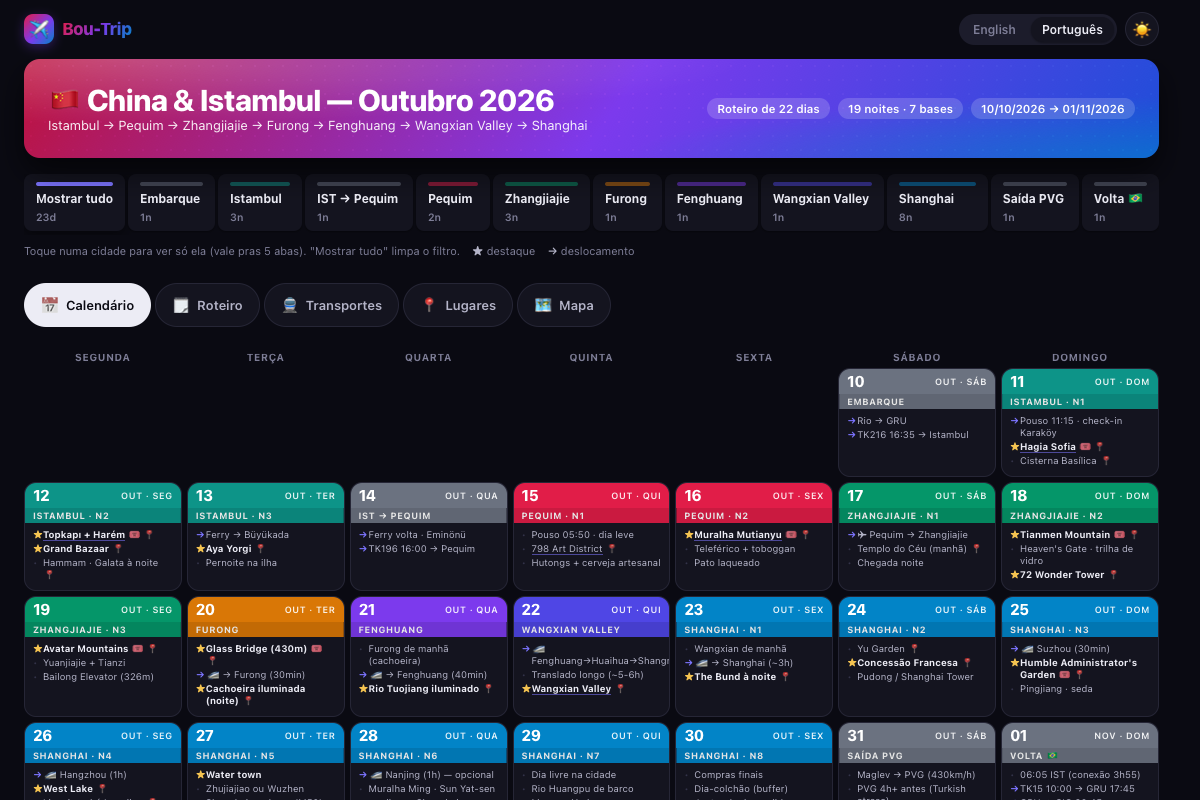
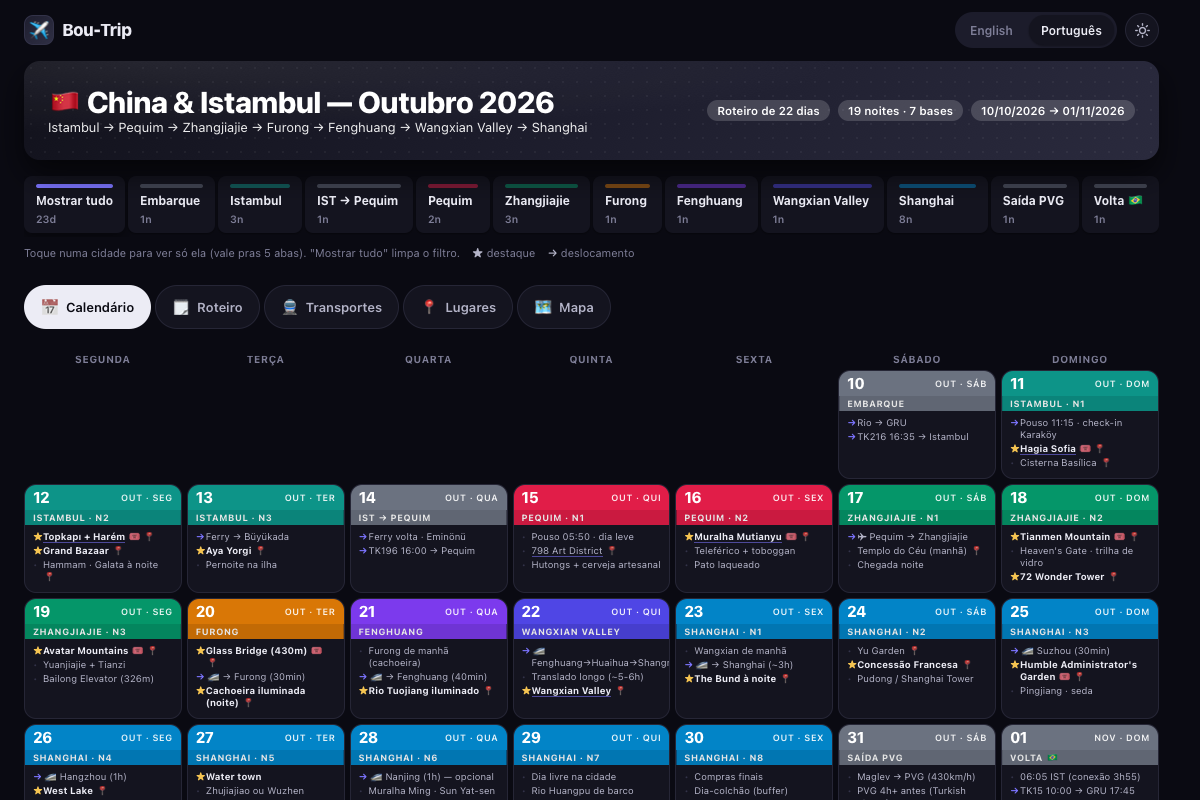
feat(theme): graphite hero, dark by default, roomier mobile
- drop the pink/purple gradient: hero and brand are graphite now, so all
  the color on screen comes from the cities themselves
- dark is the default theme; light is opt-in via the toggle and persists
- mobile: only the tabs stay pinned (two sticky bars ate ~58px of screen),
  compact hero, 38-42px tap targets on the bar controls
- theme toggle uses currentColor SVGs instead of emoji, which always
  render colored and fought the palette

diff --git a/examples/china-2026/05-CALENDARIO.html b/examples/china-2026/05-CALENDARIO.html
@@ -3,10 +3,10 @@
 <head>
 <meta charset="UTF-8">
 <meta name="viewport" content="width=device-width, initial-scale=1">
-<meta name="color-scheme" content="light dark">
+<meta name="color-scheme" content="dark light">
 <title>China &amp; Istambul — Outubro 2026</title>
 <script>
-  // aplica o tema salvo antes da primeira pintura (evita flash de tela clara)
+  // aplica o tema salvo antes da primeira pintura (evita flash ao trocar de tema)
   try { var t = localStorage.getItem('boutrip-theme'); if (t) document.documentElement.setAttribute('data-theme', t); } catch (e) {}
 </script>
 <link rel="stylesheet" href="https://unpkg.com/leaflet@1.9.4/dist/leaflet.css" crossorigin="">
@@ -14,7 +14,34 @@
 <style>
 
   :root {
-    color-scheme: light;
+    color-scheme: dark;
+    --bg: #0a0a12;
+    --bg-blur: rgba(10, 10, 18, .82);
+    --surface: #14141f;
+    --surface-2: #1c1c2b;
+    --text: #ececf5;
+    --text-2: #b4b4c8;
+    --muted: #7e7e97;
+    --border: #262636;
+    --border-strong: #333349;
+    --accent: #7c74ff;
+    --accent-fg: #0a0a12;
+    --accent-soft: rgba(124, 116, 255, .16);
+    --star: #f5c451;
+    --shadow-sm: 0 1px 2px rgba(0, 0, 0, .4);
+    --shadow-md: 0 4px 14px rgba(0, 0, 0, .45);
+    --shadow-lg: 0 14px 34px rgba(0, 0, 0, .6);
+    --city-lighten: 42%;
+    --tile-filter: invert(1) hue-rotate(180deg) brightness(.94) contrast(.86) saturate(.75);
+
+    --sp-1: 4px; --sp-2: 8px; --sp-3: 12px; --sp-4: 16px; --sp-5: 24px; --sp-6: 32px;
+    --r-sm: 8px; --r-md: 12px; --r-lg: 16px; --r-full: 999px;
+    --ease: cubic-bezier(.22, .78, .28, 1);
+    --dur-fast: 110ms; --dur: 210ms;
+    --font: -apple-system, BlinkMacSystemFont, "Segoe UI", "Inter", "Helvetica Neue", Arial, sans-serif;
+    --tap: 44px;
+  }
+  :root[data-theme="light"] { color-scheme: light;
     --bg: #f5f6fa;
     --bg-blur: rgba(245, 246, 250, .82);
     --surface: #ffffff;
@@ -33,55 +60,6 @@
     --shadow-lg: 0 14px 34px rgba(18, 18, 45, .14);
     --city-lighten: 0%;
     --tile-filter: none;
-
-    --sp-1: 4px; --sp-2: 8px; --sp-3: 12px; --sp-4: 16px; --sp-5: 24px; --sp-6: 32px;
-    --r-sm: 8px; --r-md: 12px; --r-lg: 16px; --r-full: 999px;
-    --ease: cubic-bezier(.22, .78, .28, 1);
-    --dur-fast: 110ms; --dur: 210ms;
-    --font: -apple-system, BlinkMacSystemFont, "Segoe UI", "Inter", "Helvetica Neue", Arial, sans-serif;
-    --tap: 44px;
-  }
-  @media (prefers-color-scheme: dark) {
-    :root:not([data-theme="light"]) { color-scheme: dark;
-    --bg: #0a0a12;
-    --bg-blur: rgba(10, 10, 18, .82);
-    --surface: #14141f;
-    --surface-2: #1c1c2b;
-    --text: #ececf5;
-    --text-2: #b4b4c8;
-    --muted: #7e7e97;
-    --border: #262636;
-    --border-strong: #333349;
-    --accent: #7c74ff;
-    --accent-fg: #0a0a12;
-    --accent-soft: rgba(124, 116, 255, .16);
-    --star: #f5c451;
-    --shadow-sm: 0 1px 2px rgba(0, 0, 0, .4);
-    --shadow-md: 0 4px 14px rgba(0, 0, 0, .45);
-    --shadow-lg: 0 14px 34px rgba(0, 0, 0, .6);
-    --city-lighten: 42%;
-    --tile-filter: invert(1) hue-rotate(180deg) brightness(.94) contrast(.86) saturate(.75);
-    }
-  }
-  :root[data-theme="dark"] { color-scheme: dark;
-    --bg: #0a0a12;
-    --bg-blur: rgba(10, 10, 18, .82);
-    --surface: #14141f;
-    --surface-2: #1c1c2b;
-    --text: #ececf5;
-    --text-2: #b4b4c8;
-    --muted: #7e7e97;
-    --border: #262636;
-    --border-strong: #333349;
-    --accent: #7c74ff;
-    --accent-fg: #0a0a12;
-    --accent-soft: rgba(124, 116, 255, .16);
-    --star: #f5c451;
-    --shadow-sm: 0 1px 2px rgba(0, 0, 0, .4);
-    --shadow-md: 0 4px 14px rgba(0, 0, 0, .45);
-    --shadow-lg: 0 14px 34px rgba(0, 0, 0, .6);
-    --city-lighten: 42%;
-    --tile-filter: invert(1) hue-rotate(180deg) brightness(.94) contrast(.86) saturate(.75);
   }
 
   * { box-sizing: border-box; margin: 0; padding: 0; }
@@ -111,7 +89,7 @@
 
   /* ---------- app bar ---------- */
   .appbar {
-    position: sticky; top: 0; z-index: 1100;
+    z-index: 1100;
     display: flex; align-items: center; justify-content: space-between; gap: var(--sp-3);
     padding: var(--sp-3) 0;
     background: var(--bg-blur);
@@ -123,19 +101,15 @@
   .brand { display: flex; align-items: center; gap: var(--sp-2); }
   .brand-mark {
     width: 30px; height: 30px; border-radius: 9px; display: grid; place-items: center; font-size: 15px;
-    background: linear-gradient(135deg, #e11d48, #7c3aed 55%, #0284c7);
-    box-shadow: 0 3px 12px rgba(124, 58, 237, .34);
+    background: linear-gradient(135deg, #1e1e2e, #2f2f44);
+    border: 1px solid var(--border-strong);
   }
-  .brand-name {
-    font-weight: 800; font-size: 17px; letter-spacing: -.3px;
-    background: linear-gradient(120deg, #e11d48, #7c3aed 55%, #0284c7);
-    -webkit-background-clip: text; background-clip: text; color: transparent;
-  }
+  .brand-name { font-weight: 800; font-size: 17px; letter-spacing: -.3px; color: var(--text); }
   .bar-actions { display: flex; align-items: center; gap: var(--sp-2); }
   .langbar { display: flex; gap: var(--sp-1); padding: 3px; border-radius: var(--r-full); background: var(--surface-2); }
   .lang {
     -webkit-appearance: none; appearance: none; font: inherit; font-size: 12px; font-weight: 600;
-    cursor: pointer; padding: 5px 11px; border-radius: var(--r-full); border: 0;
+    cursor: pointer; min-height: 38px; padding: 0 14px; border-radius: var(--r-full); border: 0;
     background: transparent; color: var(--muted);
     transition: color var(--dur-fast) var(--ease), background var(--dur-fast) var(--ease);
   }
@@ -143,38 +117,34 @@
   .lang.active { background: var(--surface); color: var(--text); box-shadow: var(--shadow-sm); }
   .icon-btn {
     -webkit-appearance: none; appearance: none; font: inherit; cursor: pointer;
-    width: 34px; height: 34px; display: grid; place-items: center; font-size: 15px;
+    width: 42px; height: 42px; display: grid; place-items: center; font-size: 16px;
     border-radius: var(--r-full); border: 1px solid var(--border); background: var(--surface); color: var(--text-2);
     transition: transform var(--dur-fast) var(--ease), border-color var(--dur-fast) var(--ease);
   }
   .icon-btn:hover { border-color: var(--border-strong); transform: translateY(-1px); }
   .icon-btn:active { transform: translateY(0) scale(.94); }
-  .icon-btn .ico-dark { display: none; }
-  :root[data-theme="dark"] .icon-btn .ico-dark { display: block; }
-  :root[data-theme="dark"] .icon-btn .ico-light { display: none; }
-  @media (prefers-color-scheme: dark) {
-    :root:not([data-theme="light"]) .icon-btn .ico-dark { display: block; }
-    :root:not([data-theme="light"]) .icon-btn .ico-light { display: none; }
-  }
+  .icon-btn .ico { width: 17px; height: 17px; }
+  .icon-btn .ico-light { display: none; }
+  :root[data-theme="light"] .icon-btn .ico-light { display: block; }
+  :root[data-theme="light"] .icon-btn .ico-dark { display: none; }
 
   /* ---------- hero ---------- */
   .header {
     position: relative; overflow: hidden;
     display: flex; flex-direction: column; gap: var(--sp-2);
-    padding: var(--sp-5) var(--sp-5);
+    padding: var(--sp-4);
     border-radius: var(--r-lg);
     margin-bottom: var(--sp-4);
     color: #fff;
     background:
-      radial-gradient(120% 140% at 8% 0%, rgba(255, 255, 255, .22), transparent 46%),
-      radial-gradient(90% 120% at 100% 100%, rgba(2, 132, 199, .55), transparent 52%),
-      linear-gradient(125deg, #be123c 0%, #7c3aed 52%, #1d4ed8 100%);
+      radial-gradient(120% 140% at 10% 0%, rgba(255, 255, 255, .07), transparent 52%),
+      linear-gradient(125deg, #12121c 0%, #1e1e2e 52%, #2a2a3d 100%);
     box-shadow: var(--shadow-lg);
   }
   .header::after {
     content: ""; position: absolute; inset: 0; pointer-events: none;
-    background-image: radial-gradient(rgba(255, 255, 255, .16) 1px, transparent 1px);
-    background-size: 14px 14px; opacity: .5; mix-blend-mode: overlay;
+    background-image: radial-gradient(rgba(255, 255, 255, .08) 1px, transparent 1px);
+    background-size: 14px 14px; opacity: .6;
   }
   .header > * { position: relative; z-index: 1; }
   .header h1 { font-size: clamp(21px, 4.4vw, 30px); line-height: 1.12; letter-spacing: -.6px; font-weight: 800; }
@@ -217,7 +187,7 @@
 
   /* ---------- tabs ---------- */
   .tabs {
-    position: sticky; top: 58px; z-index: 1000;
+    position: sticky; top: 0; z-index: 1000;
     display: flex; gap: var(--sp-1); margin-bottom: var(--sp-4); padding: var(--sp-2) 0;
     overflow-x: auto; scrollbar-width: none;
     background: var(--bg-blur);
@@ -352,7 +322,11 @@
 
   /* ---------- responsivo ---------- */
   @media (min-width: 620px) {
-    .header { flex-direction: row; align-items: center; justify-content: space-between; gap: var(--sp-5); }
+    .appbar { position: sticky; top: 0; }
+    .tabs { top: 58px; }
+    .lang { min-height: 30px; padding: 0 12px; }
+    .icon-btn { width: 34px; height: 34px; font-size: 15px; }
+    .header { flex-direction: row; align-items: center; justify-content: space-between; gap: var(--sp-5); padding: var(--sp-5); }
     .header .meta { justify-content: flex-end; }
     .cal { grid-template-columns: repeat(2, 1fr); }
     .pl-grid { columns: 2; }
@@ -426,7 +400,7 @@
     </div>
     <div class="bar-actions">
       <div class="langbar" role="group" aria-label="Idioma"><button class="lang" data-lang="en" aria-pressed="false">English</button><button class="lang active" data-lang="pt" aria-pressed="true">Português</button></div>
-      <button class="icon-btn" id="themebtn" aria-label="Alternar modo escuro"><span class="ico-light">🌙</span><span class="ico-dark">☀</span></button>
+      <button class="icon-btn" id="themebtn" aria-label="Alternar modo escuro"><svg class="ico ico-dark" viewBox="0 0 24 24" fill="none" stroke="currentColor" stroke-width="2" stroke-linecap="round" aria-hidden="true"><circle cx="12" cy="12" r="4.2"/><path d="M12 2.5v2M12 19.5v2M2.5 12h2M19.5 12h2M5.2 5.2l1.4 1.4M17.4 17.4l1.4 1.4M18.8 5.2l-1.4 1.4M6.6 17.4l-1.4 1.4"/></svg><svg class="ico ico-light" viewBox="0 0 24 24" fill="none" stroke="currentColor" stroke-width="2" stroke-linecap="round" stroke-linejoin="round" aria-hidden="true"><path d="M21 12.8A9 9 0 1 1 11.2 3a7 7 0 0 0 9.8 9.8z"/></svg></button>
     </div>
   </div>
 
@@ -1093,11 +1067,8 @@ var TRIP_I18N = {"today":{"en":"Today","pt":"Hoje"},"mapApp":"📱 app de mapa"}
     if (saved) root.setAttribute('data-theme', saved);
   } catch (e) { /* localStorage bloqueado (file:// em alguns navegadores) */ }
 
-  function systemDark() { return window.matchMedia && window.matchMedia('(prefers-color-scheme: dark)').matches; }
-  function isDark() {
-    var t = root.getAttribute('data-theme');
-    return t ? t === 'dark' : systemDark();
-  }
+  // escuro é o padrão: só data-theme="light" sai dele
+  function isDark() { return root.getAttribute('data-theme') !== 'light'; }
   var themeBtn = document.getElementById('themebtn');
   if (themeBtn) themeBtn.addEventListener('click', function () {
     var next = isDark() ? 'light' : 'dark';
